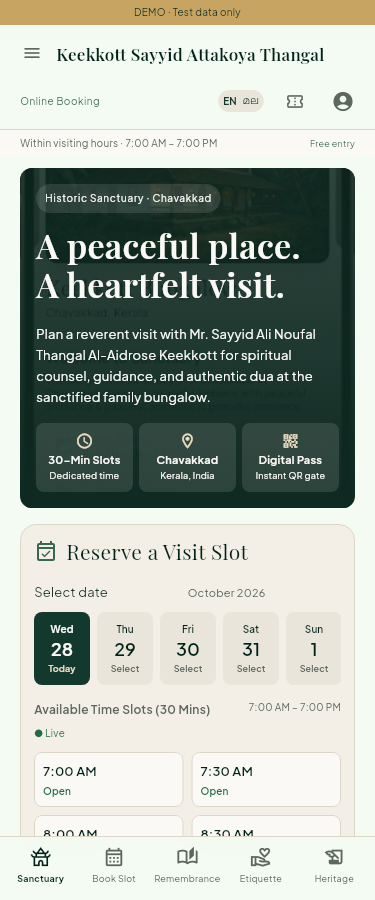
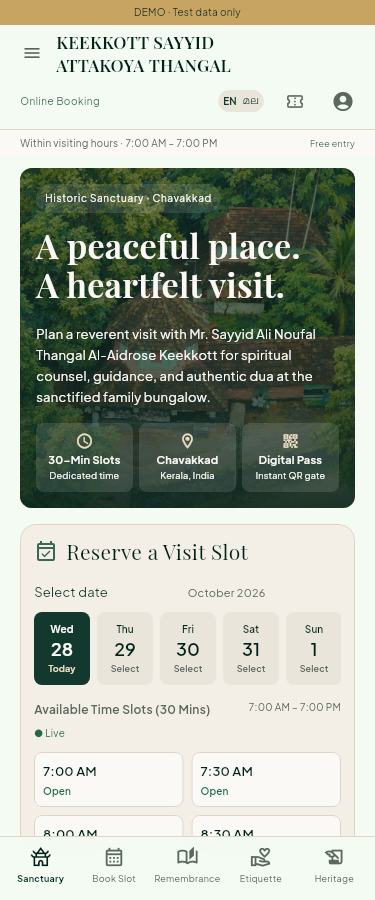
Reuse web Maqam hero image and uppercase mobile title

Changed region(s): [[0.0587, 0.1867, 0.968, 0.5289], [0.1467, 0.0311, 0.6747, 0.0933], [0.704, 0.0311, 0.8507, 0.0933]]

diff --git a/web/index.html b/web/index.html
@@ -27,7 +27,7 @@
   <meta name="viewport" content="width=device-width, initial-scale=1.0">
   <meta name="theme-color" content="#064E3B">
   <meta name="description" content="Book your visit to Keekkott Sayyid Attakoya Thangal Maqam in Chavakkad, Kerala. Check available dates, visiting times and visitor guidance.">
-  <meta property="og:title" content="Keekkott Sayyid Attakoya Thangal | Online Booking">
+  <meta property="og:title" content="KEEKKOTT SAYYID ATTAKOYA THANGAL | Online Booking">
   <meta property="og:description" content="Book your visit to Keekkott Sayyid Attakoya Thangal Maqam in Chavakkad, Kerala. Check available dates, visiting times and visitor guidance.">
   <meta property="og:type" content="website">
   <meta name="twitter:card" content="summary">
@@ -35,7 +35,7 @@
   <link rel="apple-touch-icon" sizes="180x180" href="icons/keekkott-apple-touch-180.png">
   <link rel="sitemap" type="application/xml" href="sitemap.xml">
   <link rel="manifest" href="manifest.json">
-  <title>Keekkott Sayyid Attakoya Thangal | Online Booking</title>
+  <title>KEEKKOTT SAYYID ATTAKOYA THANGAL | Online Booking</title>
   <link rel="canonical" href="https://www.keekkottbungalow.com/">
   <script type="application/ld+json">{"@context": "https://schema.org", "@type": "WebSite", "@id": "https://www.keekkottbungalow.com/#website", "url": "https://www.keekkottbungalow.com/", "name": "Keekkott Sayyid Attakoya Thangal", "alternateName": "Keekkott Bungalow", "description": "Book your visit to Keekkott Sayyid Attakoya Thangal Maqam in Chavakkad, Kerala. Check available dates, visiting times and visitor guidance.", "inLanguage": ["en", "ml"]}</script>
   <meta property="og:url" content="https://www.keekkottbungalow.com/">

diff --git a/lib/features/home/presentation/mobile_sanctuary_home.dart b/lib/features/home/presentation/mobile_sanctuary_home.dart
@@ -171,8 +171,9 @@ class _HeritageHero extends ConsumerWidget {
         children: [
           Positioned.fill(
             child: Image.asset(
-              'assets/brand/stitch/hero.jpg',
+              'assets/brand/maqam-hero.png',
               fit: BoxFit.cover,
+              alignment: const Alignment(.25, 0),
               excludeFromSemantics: true,
             ),
           ),
@@ -183,9 +184,11 @@ class _HeritageHero extends ConsumerWidget {
                   begin: Alignment.topCenter,
                   end: Alignment.bottomCenter,
                   colors: [
-                    AppColors.forest.withValues(alpha: .85),
-                    AppColors.forest,
+                    AppColors.forest.withValues(alpha: .62),
+                    AppColors.forest.withValues(alpha: .68),
+                    AppColors.forest.withValues(alpha: .92),
                   ],
+                  stops: const [0, .55, 1],
                 ),
               ),
             ),

diff --git a/lib/app/theme/app_theme.dart b/lib/app/theme/app_theme.dart
@@ -2,7 +2,7 @@ import 'package:flutter/material.dart';
 
 /// The web identity is also used by the mobile shell and application metadata.
 abstract final class AppBrand {
-  static const name = 'Keekkott Sayyid Attakoya Thangal';
+  static const name = 'KEEKKOTT SAYYID ATTAKOYA THANGAL';
   static const service = 'Online Booking';
   static const title = '$name | $service';
 }

diff --git a/lib/core/widgets/sanctuary_mobile_shell.dart b/lib/core/widgets/sanctuary_mobile_shell.dart
@@ -54,7 +54,7 @@ class SanctuaryMobileHeader extends ConsumerWidget {
       );
     }
     final identity = AppText(
-      AppBrand.name,
+      ml ? AppBrand.name : 'KEEKKOTT SAYYID\nATTAKOYA THANGAL',
       style: const TextStyle(
         fontFamily: 'Playfair Display',
         fontSize: 17,
